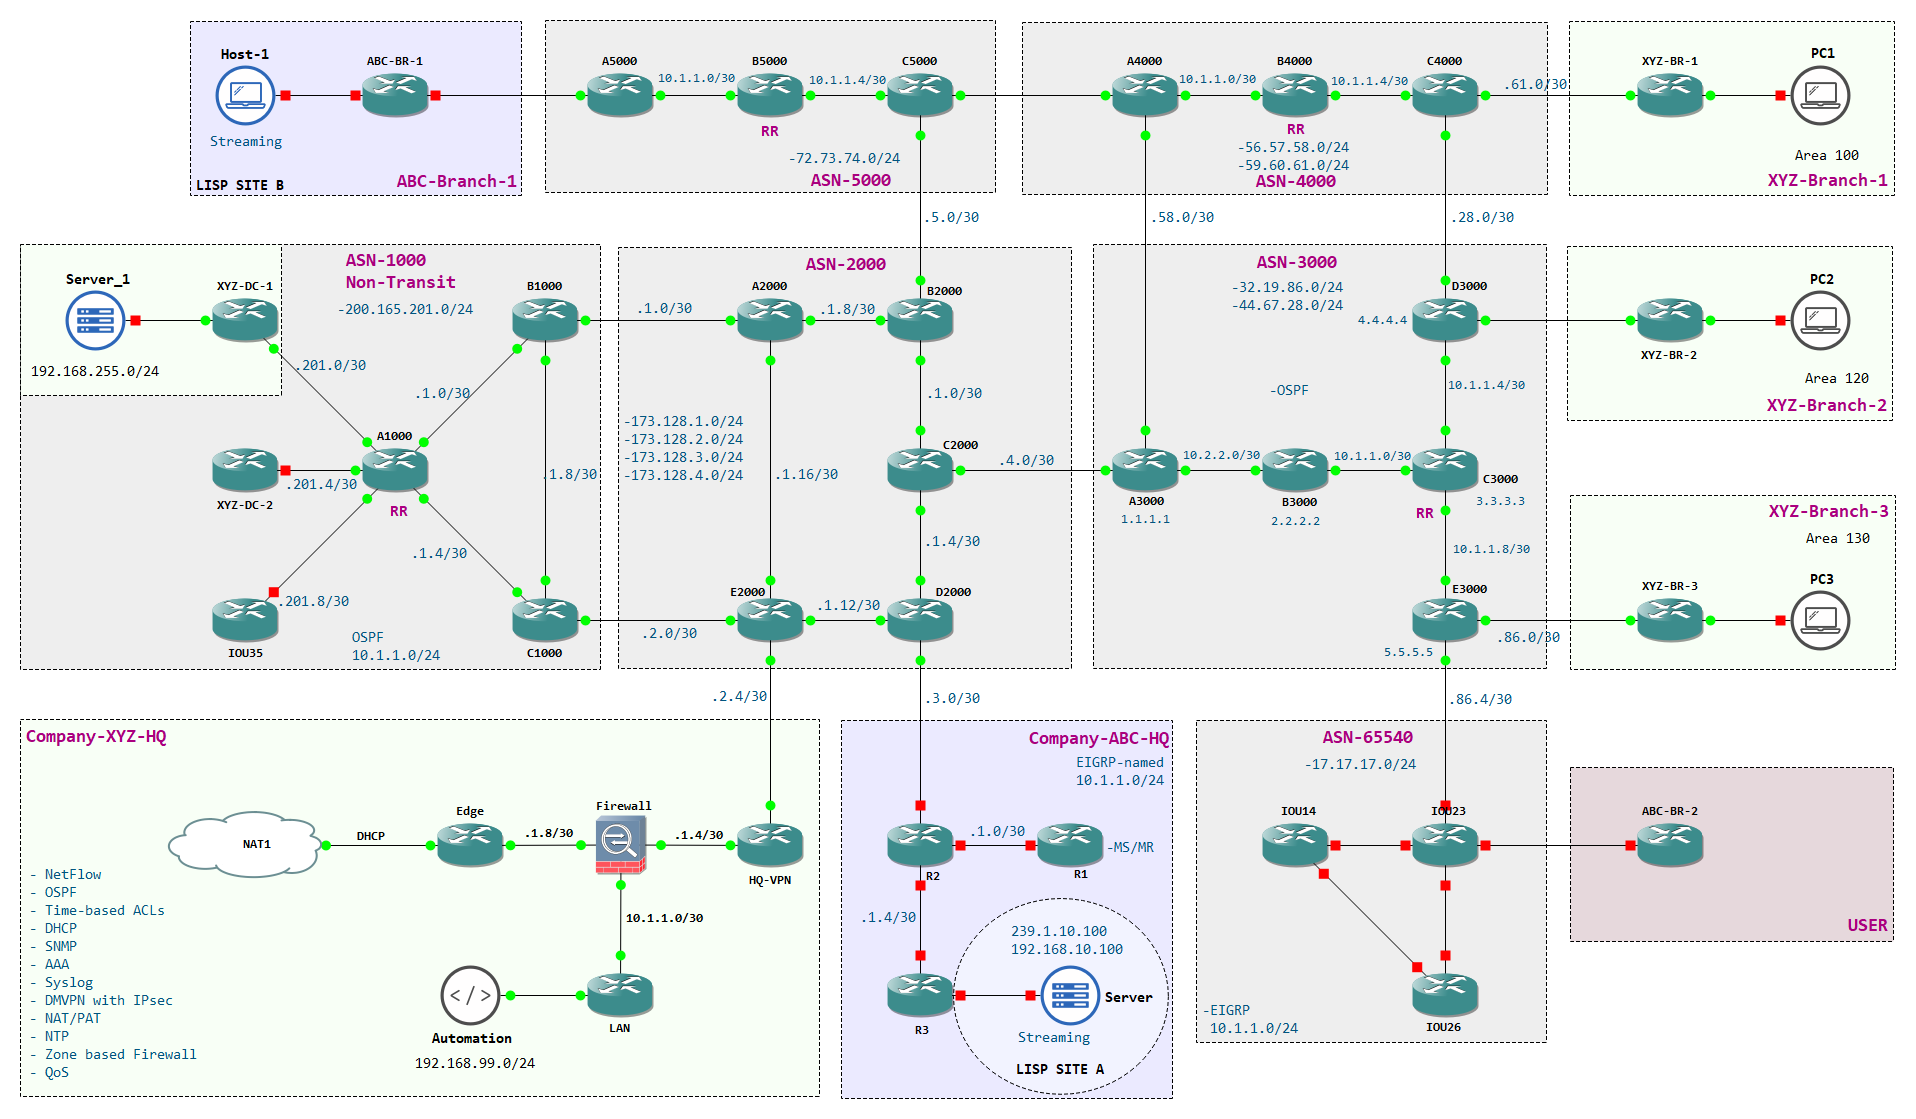
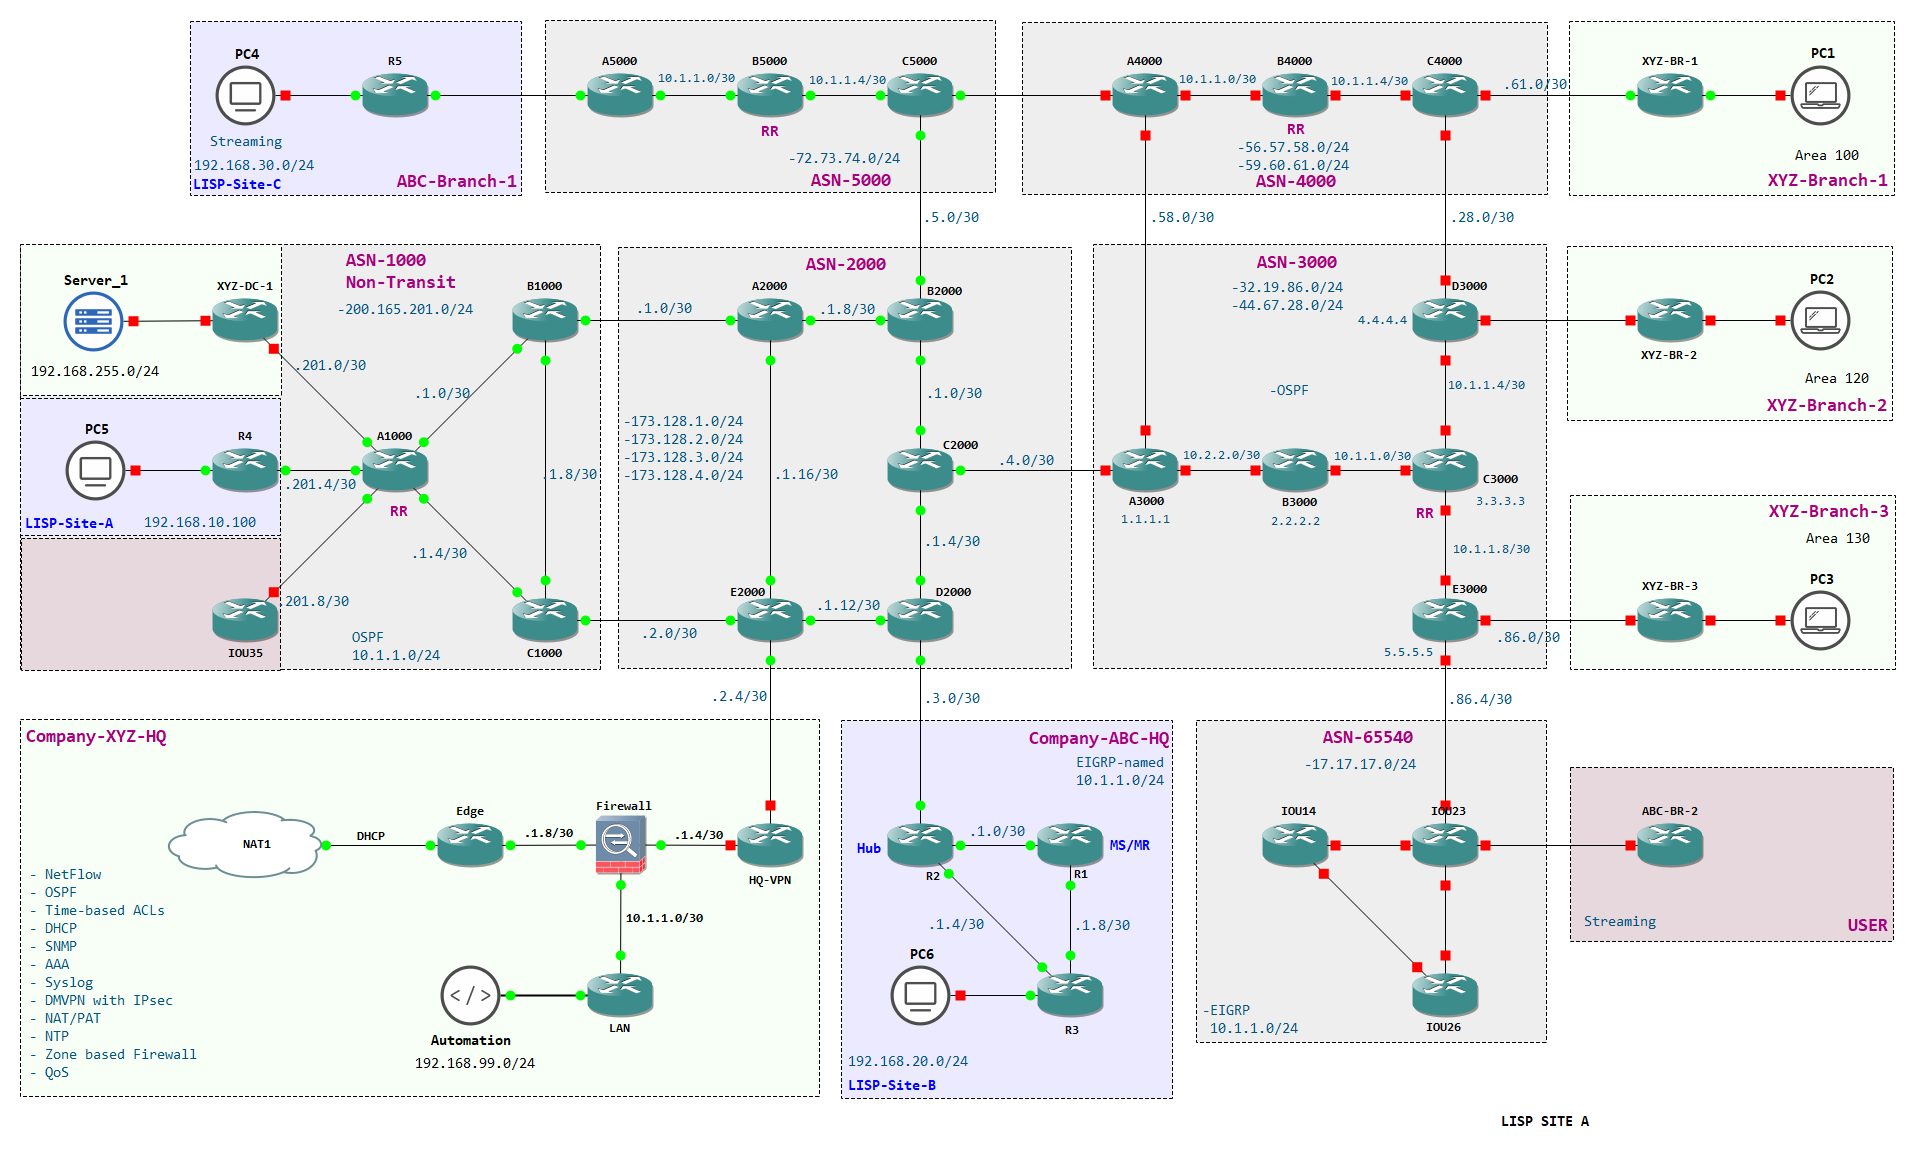
projects

diff --git a/Project 1/Company-ABC/Device_config.py b/Project 1/Company-ABC/Device_config.py
@@ -1,0 +1,154 @@
+from netmiko import ConnectHandler
+from rich import print as rprint
+from Device_list import R1, R2, R3, R4, R5
+
+
+
+#Configuring R4 router:
+#    - LISP xTR
+#    - MGRE tunnel (spoke)
+#    - cryptography
+
+rprint("======CONFIGURING R4 SPOKE ROUTER======\n")
+net_connect=ConnectHandler(**R4)
+net_connect.enable()
+lisp=   [
+            "router lisp",
+            "ipv4 itr",
+            "ipv4 etr",
+            "ipv4 etr map-server 1.1.1.1 key cisco123",
+            "ipv4 itr map-resolver 1.1.1.1",
+            "database-mapping 192.168.10.0/24 172.31.1.10 priority 50 weight 50" ]
+crypto= [
+            "crypto isakmp policy 100",
+            "hash sha",
+            "authentication pre-share",
+            "group 14",
+            "lifetime 7200",
+            "encryption aes",
+            "crypto isakmp key abc123 address 0.0.0.0",
+            "crypto ipsec transform-set crypt_ts esp-sha-hmac esp-aes 192",
+            "mode transport",
+            "crypto ipsec profile crypt_profile",
+            "set transform-set crypt_ts" ] 
+rprint(net_connect.send_config_set(lisp)+"\n")
+rprint(net_connect.send_config_set(crypto))
+net_connect.save_config()
+net_connect.disconnect()
+
+
+
+#Configuring R5 router:
+#    - LISP xTR
+#    - MGRE tunnel (spoke)
+#    - cryptography
+
+rprint("======CONFIGURING R5 SPOKE ROUTER======\n")
+net_connect=ConnectHandler(**R5)
+net_connect.enable()
+lisp=   [
+            "router lisp",
+            "ipv4 itr",
+            "ipv4 etr",
+            "ipv4 etr map-server 1.1.1.1 key cisco123",
+            "ipv4 itr map-resolver 1.1.1.1",
+            "database-mapping 192.168.30.0/24 172.31.1.20 priority 50 weight 50" ]
+crypto= [
+            "crypto isakmp policy 100",
+            "hash sha",
+            "authentication pre-share",
+            "group 14",
+            "lifetime 7200",
+            "encryption aes",
+            "crypto isakmp key abc123 address 0.0.0.0",
+            "crypto ipsec transform-set crypt_ts esp-sha-hmac esp-aes 192",
+            "mode transport",
+            "crypto ipsec profile crypt_profile",
+            "set transform-set crypt_ts" ] 
+rprint(net_connect.send_config_set(lisp)+"\n")
+rprint(net_connect.send_config_set(crypto))
+net_connect.save_config()
+net_connect.disconnect()
+
+
+
+#Configuring R2 router:
+#    - MGRE tunnel (hub)
+#    - cryptography
+
+rprint("======CONFIGURING R4 HUB ROUTER======\n")
+net_connect=ConnectHandler(**R2)
+net_connect.enable()
+tunnel= [
+            "int tunnel 0",
+            "tunnel source e1/0",
+            "tunnel mode gre multipoint",
+            "ip mtu 1400",
+            "ip nhrp map multicast dynamic",
+            "ip nhrp network-id 10",
+            "ip nhrp authentication abc123",
+            "ip address 172.31.1.1 255.255.255.0"  ]
+crypto= [
+            "crypto isakmp policy 100",
+            "hash sha",
+            "authentication pre-share",
+            "group 14",
+            "lifetime 7200",
+            "encryption aes",
+            "crypto isakmp key abc123 address 0.0.0.0",
+            "crypto ipsec transform-set crypt_ts esp-sha-hmac esp-aes 192",
+            "mode transport",
+            "crypto ipsec profile crypt_profile",
+            "set transform-set crypt_ts", ] 
+rprint(net_connect.send_config_set(tunnel)+"\n")
+rprint(net_connect.send_config_set(crypto)+"\n")
+net_connect.save_config()
+net_connect.disconnect()
+
+
+
+#Configuring R1 router:
+#    - LISP MS/MR
+
+rprint("======CONFIGURING R4 MAP SERVER/RESOLVER======\n")
+net_connect=ConnectHandler(**R1)
+net_connect.enable()
+lisp= [
+        "router lisp",
+        "ipv4 map-server",
+        "ipv4 map-resolver",
+        "site LISP_SITE_A",
+        "authentication-key cisco123",
+        "eid-prefix 192.168.10.0/24",
+        "site LISP_SITE_B",
+        "authentication-key cisco123",
+        "eid-prefix 192.168.20.0/24",
+        "site LISP_SITE_C",
+        "authentication-key cisco123",
+        "eid-prefix 192.168.30.0/24" ]
+rprint(net_connect.send_config_set(lisp)+"\n")
+net_connect.save_config()
+net_connect.disconnect()
+
+
+
+
+#Configuring R3 router:
+#    - LISP xTR
+
+rprint("======CONFIGURING R3 ROUTER======\n")
+net_connect=ConnectHandler(**R3)
+net_connect.enable()
+lisp=   [
+            "router lisp",
+            "ipv4 itr",
+            "ipv4 etr",
+            "ipv4 etr map-server 1.1.1.1 key cisco123",
+            "ipv4 itr map-resolver 1.1.1.1",
+            "database-mapping 192.168.20.0/24 3.3.3.3 priority 50 weight 50" ]
+rprint(net_connect.send_config_set(lisp)+"\n")
+net_connect.save_config()
+net_connect.disconnect()
+
+
+

diff --git a/Project 1/Company-ABC/Device_list.py b/Project 1/Company-ABC/Device_list.py
@@ -1,0 +1,41 @@
+
+R1= {
+        "device_type":"cisco_ios",
+        "host": "1.1.1.1",
+        "username" : "Automation",
+        "password": "cisco123",
+        "secret": "cisco123"
+    }
+
+R2= {
+        "device_type": "cisco_ios",
+        "username" : "Automation",
+        "host": "2.2.2.2",
+        "password": "cisco123",
+        "secret": "cisco123"
+    }
+
+R3= {
+        "device_type": "cisco_ios",
+        "username" : "Automation",
+        "host": "3.3.3.3",
+        "password": "cisco123",
+        "secret": "cisco123"
+    }
+
+R4= {
+        "device_type": "cisco_ios",
+        "username" : "Automation",
+        "host": "172.31.1.10",
+        "password": "cisco123",
+        "secret": "cisco123"
+    }
+
+R5= {
+        "device_type": "cisco_ios",
+        "username" : "Automation",
+        "host": "172.31.1.20",
+        "password": "cisco123",
+        "secret": "cisco123"
+    }
+

diff --git a/Project 1/Company-ABC/Verification.py b/Project 1/Company-ABC/Verification.py
@@ -1,0 +1,15 @@
+
+from netmiko import ConnectHandler
+from rich import print as rprint
+from Device_list import R3
+
+#Verifying LISP
+
+net_connect=ConnectHandler(**R3)
+net_connect.enable()
+commands=["ping 192.168.10.1 source 192.168.20.1","ping 192.168.30.1 source 192.168.20.1"]
+for command in commands:
+    rprint(net_connect.send_command(command)+"\n")
+
+    
+
